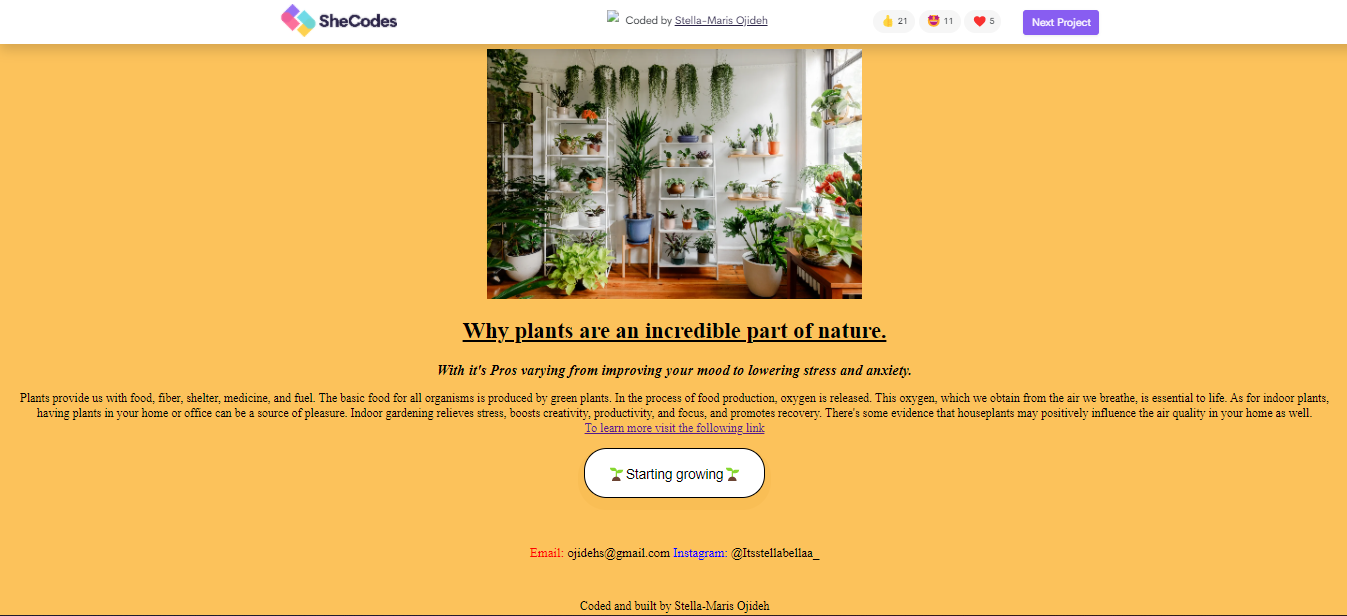
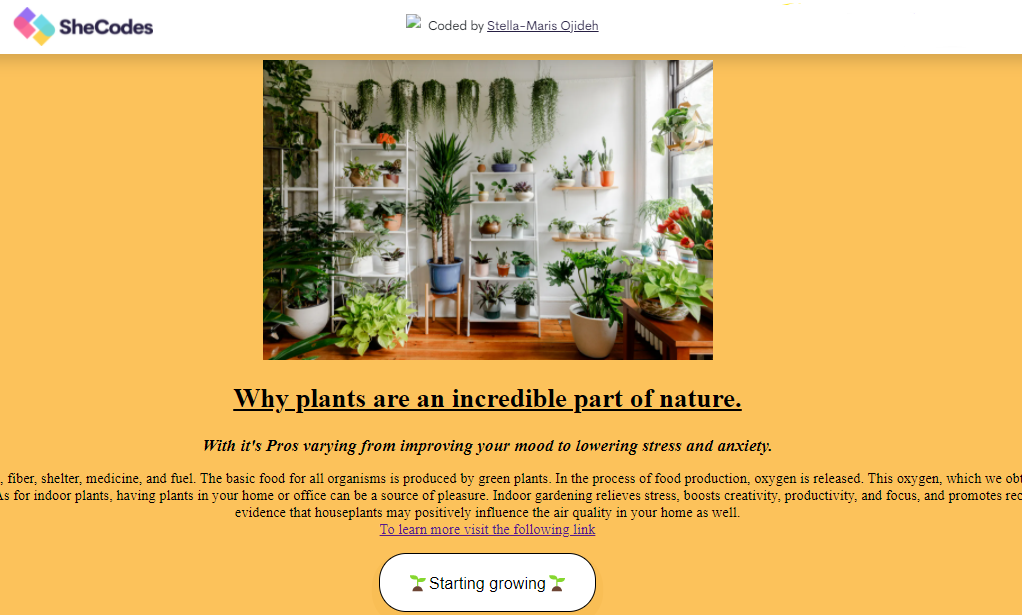
added more css and amended html and navbar to make sure everything centered

diff --git a/index.html b/index.html
@@ -29,6 +29,30 @@
     <title>My Software Portfolio</title>
   </head>
   <body>
+     <nav class="navbar navbar-expand-lg navbar-light bg-light fixed-top align-items-center shadow">
+      <div class="container-fluid">
+        <a class="navbar-brand" href="">S M E O</a>
+        <button
+          class="navbar-toggler"
+          type="button"
+          data-bs-toggle="collapse"
+          data-bs-target="#navbarNavAltMarkup"
+          aria-controls="navbarNavAltMarkup"
+          aria-expanded="false"
+          aria-label="Toggle navigation"
+        >
+          <span class="navbar-toggler-icon"></span>
+        </button>
+        <div class="collapse navbar-collapse" id="navbarNavAltMarkup">
+          <div class="navbar-nav">
+            <a class="nav-link" href="">Stella-Maris Ojideh</a>
+            <a class="nav-link" href="">Home</a>
+            <a class="nav-link" href="">About Me</a>
+            <a class="nav-link" href="">Contact Me</a>
+          </div>
+        </div>
+    </div>
+    </nav>
     <div class="hero">
       <p>👋 Hello, I'm</p>
       <h1>Stella-Maris Ojideh</h1>
@@ -59,7 +83,7 @@
         </div>
       </div>
       <div class="row mb-5">         
-        <div class="col-6">           
+        <div class="col">           
           <div class="project-desciption">             
             <h3 class="mb-5">Plants Landing Page</h3>             
             <p class="mb-5 text-muted">               
@@ -68,7 +92,7 @@
               <a href="https://www.shecodes.io/workshops/shecodes-basics-6d9ccdc4-eeda-4d48-ba36-3d0d14341104/projects/626866" class="btn btn-branding-outline"> Visit page </a>
                 </div>         
               </div>         
-              <div class="col-6 d-none d-lg-block">           
+              <div class="col d-none d-lg-block">           
                 <img src="images/plants.png" class="img-fluid rounded shadow" alt="">         
               </div>       
             </div>

diff --git a/css/styles.css b/css/styles.css
@@ -63,6 +63,7 @@
 h3 {
     font-family: 'Playfair Display', serif;
     font-weight: bold;
+    font-size: 44px;
 }
 
 p {
@@ -77,7 +78,12 @@ body {
 .img-fluid {
     max-width: 100%;
     height: auto;
+    padding: 20px;
 }
 .container {
     padding-top: 70px;
+}
+
+.col {
+    margin: 30px;
 }
